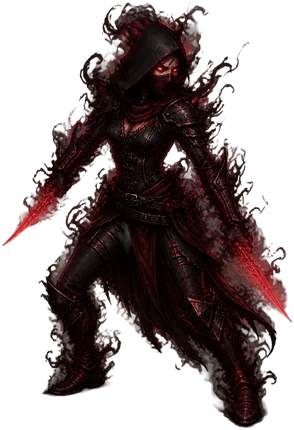
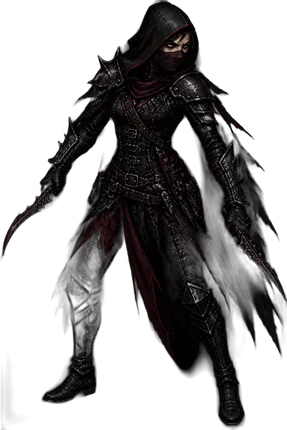
Lame d'ombre : armure palier V repeinte
Claude-Session: https://claude.ai/code/session_01XuxscubMSQPeew8BrSfQGu

diff --git a/index.html b/index.html
@@ -211,7 +211,7 @@ p{margin:6px 0;line-height:1.45}
 <div id="boot"><div class="bootin"><img src="assets/ui_emblem.webp" alt="" onerror="this.remove()"><h1>Couronne de Cendres</h1><div class="bootbar"><i></i></div><div class="boottxt">Les braises s'allument…</div><button class="btn ghost sm" id="bootskip" style="display:none">Continuer sans attendre</button></div></div>
 <div id="toasts" aria-live="polite"></div>
 <script>window.CC_SW = 1;</script><script>
-window.ART_LIST=["bg_abime","bg_bastion","bg_bastion2","bg_bourg","bg_catacombes","bg_citadelle","bg_foret","bg_marais","bg_terres","bg_titre","bld_academie","bld_chapelle","bld_fonderie","bld_forge","bld_menagerie","bld_porte","bld_taverne","hero_arbaletriere_chasseresse","hero_arbaletriere_t1","hero_arbaletriere_t2","hero_arbaletriere_t3","hero_arbaletriere_t4","hero_arbaletriere_t5","hero_arbaletriere_tireuse_elite","hero_berserker_chef_guerre","hero_berserker_ecorcheur","hero_berserker_t1","hero_berserker_t2","hero_berserker_t3","hero_berserker_t4","hero_berserker_t5","hero_chasseur_sorcieres_purificateur","hero_chasseur_sorcieres_t1","hero_chasseur_sorcieres_t2","hero_chasseur_sorcieres_t3","hero_chasseur_sorcieres_t4","hero_chasseur_sorcieres_t5","hero_chasseur_sorcieres_traqueur","hero_exorciste_confesseur","hero_exorciste_penitent","hero_exorciste_t1","hero_exorciste_t2","hero_exorciste_t3","hero_exorciste_t4","hero_exorciste_t5","hero_gardien_runes_forge_tonnerre","hero_gardien_runes_t1","hero_gardien_runes_t2","hero_gardien_runes_t3","hero_gardien_runes_t4","hero_gardien_runes_t5","hero_gardien_runes_thane_pierre","hero_hallebardier_garde_roi","hero_hallebardier_lansquenet","hero_hallebardier_t1","hero_hallebardier_t2","hero_hallebardier_t3","hero_hallebardier_t4","hero_hallebardier_t5","hero_medecin_peste_apothicaire","hero_medecin_peste_chirurgien","hero_medecin_peste_t1","hero_medecin_peste_t2","hero_medecin_peste_t3","hero_medecin_peste_t4","hero_medecin_peste_t5","hero_menestrel_chantre","hero_menestrel_heraut","hero_menestrel_t1","hero_menestrel_t2","hero_menestrel_t3","hero_menestrel_t4","hero_menestrel_t5","hero_necromancien_liche","hero_necromancien_maitre_tombes","hero_necromancien_t1","hero_necromancien_t2","hero_necromancien_t3","hero_necromancien_t4","hero_necromancien_t5","hero_ombre_assassin","hero_ombre_ombre_sang","hero_ombre_t1","hero_ombre_t2","hero_ombre_t3","hero_ombre_t4","hero_ombre_t5","hero_pretresse_martyre","hero_pretresse_sainte","hero_pretresse_t1","hero_pretresse_t2","hero_pretresse_t3","hero_pretresse_t4","hero_pretresse_t5","hero_pyromancien_archimage","hero_pyromancien_demoniste","hero_pyromancien_t1","hero_pyromancien_t2","hero_pyromancien_t3","hero_pyromancien_t4","hero_pyromancien_t5","hero_revenant_seigneur_sang","hero_revenant_spectre","hero_revenant_t1","hero_revenant_t2","hero_revenant_t3","hero_revenant_t4","hero_revenant_t5","hero_sorciere_druidesse","hero_sorciere_sorciere_noire","hero_sorciere_t1","hero_sorciere_t2","hero_sorciere_t3","hero_sorciere_t4","hero_sorciere_t5","hero_templier_bastion","hero_templier_inquisiteur","hero_templier_t1","hero_templier_t2","hero_templier_t3","hero_templier_t4","hero_templier_t5","map_boss","map_camp","map_combat","map_elite","map_event","map_shop","map_treasure","mon_abbe","mon_alpha","mon_araignee","mon_archer","mon_archer_os","mon_archonte_cendres","mon_boucher","mon_bourreau","mon_brigand","mon_cardinal","mon_charognard","mon_chevalier_dechu","mon_chevalier_os","mon_chevaucheur_calcine","mon_chien_cendre","mon_colosse_braise","mon_crapaud","mon_cultiste","mon_devoreur_lumiere","mon_diablotin","mon_docteur","mon_dryade","mon_follet","mon_gargouille","mon_golem","mon_goule","mon_hallebardier_os","mon_horreur","mon_hydre","mon_inquisiteur","mon_liche","mon_loup","mon_matrone_os","mon_mere_noyes","mon_mere_ronces","mon_moine_flagellant","mon_necrophage","mon_noye","mon_oeil","mon_ogre","mon_pecheur","mon_pendu","mon_penitent_ardent","mon_pestifere","mon_pretre_suie","mon_prieur","mon_profond","mon_rat","mon_reine_sabbat","mon_roi","mon_sangsue","mon_sans_nom","mon_sans_visage","mon_sentinelle_obsidienne","mon_sorciere_marais","mon_spectre","mon_squelette","mon_thuriferaire","pet_araignee","pet_araignee_evo","pet_belette","pet_cerf","pet_cerf_evo","pet_chat_noir","pet_chat_noir_evo","pet_chauve_souris","pet_chauve_souris_evo","pet_chouette","pet_chouette_evo","pet_corbeau","pet_corbeau_evo","pet_crapaud","pet_crapaud_evo","pet_drake","pet_drake_evo","pet_feu_follet","pet_feu_follet_evo","pet_gargouille","pet_gargouille_evo","pet_griffon","pet_griffon_evo","pet_loup","pet_loup_evo","pet_molosse","pet_molosse_evo","pet_ours","pet_ours_evo","pet_renard","pet_renard_evo","pet_salamandre","pet_salamandre_evo","pet_sanglier","pet_sanglier_evo","pet_vipere","pet_vipere_evo","tr_amulette_sel","tr_bague_fer","tr_cape_brume","tr_chapelet","tr_cloche_morte","tr_coeur_braise","tr_coeur_roi","tr_couronne_epines","tr_crane_saint","tr_croc_vampire","tr_dent_loup","tr_ecu_brise","tr_fiole_sang","tr_fragment_couronne","tr_gant_bourreau","tr_griffe_ombre","tr_herbe_rare","tr_oeil_abime","tr_oeil_verre","tr_phylactere","tr_pierre_ame","tr_plume_corbeau","tr_relique_aube","tr_sablier","tr_sceau_rouge","ui_aim","ui_amulet","ui_anvil","ui_armor","ui_axe","ui_back","ui_bag","ui_banner","ui_bark","ui_bell","ui_bird","ui_bless","ui_blood","ui_bolt","ui_bones","ui_book","ui_boom","ui_camp","ui_castle","ui_chain","ui_chapel","ui_charge","ui_chest","ui_claw","ui_cleanse","ui_cloak","ui_coin","ui_crown","ui_cup","ui_curse","ui_dagger","ui_daily","ui_dice","ui_drain","ui_ember","ui_emblem","ui_essence","ui_eye","ui_fang","ui_fear","ui_feather","ui_fire","ui_flames","ui_flare","ui_flask","ui_flee","ui_frost","ui_furnace","ui_gear","ui_gem","ui_ghost","ui_glove","ui_guard","ui_hammer","ui_hand","ui_heal","ui_heart","ui_helm","ui_herb","ui_horn","ui_hourglass","ui_iron","ui_knives","ui_link","ui_lock","ui_lute","ui_mace","ui_map","ui_mark","ui_mask","ui_meteor","ui_moon","ui_music","ui_note","ui_pact","ui_paw","ui_pawn","ui_pierce","ui_pillar","ui_potion","ui_quest","ui_rage","ui_rain","ui_ray","ui_ring","ui_riposte","ui_root","ui_rosary","ui_run","ui_sanct","ui_scroll","ui_scythe","ui_seal","ui_shard","ui_shield","ui_shroud","ui_skull","ui_skullc","ui_smoke","ui_sound","ui_star","ui_stun","ui_sun","ui_sword","ui_swords","ui_tavern","ui_thorn","ui_torch","ui_trap","ui_tree","ui_trophy","ui_vial","ui_wall","ui_weapon","ui_whirl","ui_wind","wpn_arbalete","wpn_baton","wpn_croix","wpn_dagues","wpn_encensoir","wpn_espadon","wpn_faucille","wpn_faux","wpn_grimoire","wpn_hache","wpn_hallebarde","wpn_luth","wpn_marteau","wpn_masse","wpn_rapiere"];window.ART_META={"hero_arbaletriere_chasseresse": 0.019,"hero_arbaletriere_t1": 0.009,"hero_arbaletriere_t2": 0.009,"hero_arbaletriere_t3": 0.007,"hero_arbaletriere_t4": 0.007,"hero_arbaletriere_t5": 0.009,"hero_arbaletriere_tireuse_elite": 0.007,"hero_berserker_chef_guerre": 0.03,"hero_berserker_ecorcheur": 0.007,"hero_berserker_t1": 0.014,"hero_berserker_t2": 0.009,"hero_berserker_t3": 0.009,"hero_berserker_t4": 0.007,"hero_berserker_t5": 0.007,"hero_chasseur_sorcieres_purificateur": 0.056,"hero_chasseur_sorcieres_t1": 0.007,"hero_chasseur_sorcieres_t2": 0.009,"hero_chasseur_sorcieres_t3": 0.007,"hero_chasseur_sorcieres_t4": 0.007,"hero_chasseur_sorcieres_t5": 0.012,"hero_chasseur_sorcieres_traqueur": 0.007,"hero_exorciste_confesseur": 0.005,"hero_exorciste_penitent": 0.028,"hero_exorciste_t1": 0.04,"hero_exorciste_t2": 0.065,"hero_exorciste_t3": 0.074,"hero_exorciste_t4": 0.072,"hero_exorciste_t5": 0.03,"hero_gardien_runes_forge_tonnerre": 0.023,"hero_gardien_runes_t1": 0.014,"hero_gardien_runes_t2": 0.012,"hero_gardien_runes_t3": 0.014,"hero_gardien_runes_t4": 0.014,"hero_gardien_runes_t5": 0.035,"hero_gardien_runes_thane_pierre": 0.014,"hero_hallebardier_garde_roi": 0.016,"hero_hallebardier_lansquenet": 0.028,"hero_hallebardier_t1": 0.012,"hero_hallebardier_t2": 0.012,"hero_hallebardier_t3": 0.012,"hero_hallebardier_t4": 0.021,"hero_hallebardier_t5": 0.014,"hero_medecin_peste_apothicaire": 0.005,"hero_medecin_peste_chirurgien": 0.005,"hero_medecin_peste_t1": 0.007,"hero_medecin_peste_t2": 0.005,"hero_medecin_peste_t3": 0.005,"hero_medecin_peste_t4": 0.005,"hero_medecin_peste_t5": 0.005,"hero_menestrel_chantre": 0.007,"hero_menestrel_heraut": 0.13,"hero_menestrel_t1": 0.007,"hero_menestrel_t2": 0.005,"hero_menestrel_t3": 0.007,"hero_menestrel_t4": 0.012,"hero_menestrel_t5": 0.007,"hero_necromancien_liche": 0.014,"hero_necromancien_maitre_tombes": 0.079,"hero_necromancien_t1": 0.009,"hero_necromancien_t2": 0.016,"hero_necromancien_t3": 0.016,"hero_necromancien_t4": 0.016,"hero_necromancien_t5": 0.012,"hero_ombre_assassin": 0.007,"hero_ombre_ombre_sang": 0.009,"hero_ombre_t1": 0.009,"hero_ombre_t2": 0.009,"hero_ombre_t3": 0.009,"hero_ombre_t4": 0.009,"hero_ombre_t5": 0.014,"hero_pretresse_martyre": 0.102,"hero_pretresse_sainte": 0.07,"hero_pretresse_t1": 0.079,"hero_pretresse_t2": 0.1,"hero_pretresse_t3": 0.121,"hero_pretresse_t4": 0.091,"hero_pretresse_t5": 0.06,"hero_pyromancien_archimage": 0.007,"hero_pyromancien_demoniste": 0.051,"hero_pyromancien_t1": 0.009,"hero_pyromancien_t2": 0.007,"hero_pyromancien_t3": 0.007,"hero_pyromancien_t4": 0.007,"hero_pyromancien_t5": 0.026,"hero_revenant_seigneur_sang": 0.151,"hero_revenant_spectre": 0.114,"hero_revenant_t1": 0.109,"hero_revenant_t2": 0.151,"hero_revenant_t3": 0.156,"hero_revenant_t4": 0.149,"hero_revenant_t5": 0.095,"hero_sorciere_druidesse": 0.051,"hero_sorciere_sorciere_noire": 0.028,"hero_sorciere_t1": 0.007,"hero_sorciere_t2": 0.014,"hero_sorciere_t3": 0.012,"hero_sorciere_t4": 0.009,"hero_sorciere_t5": 0.019,"hero_templier_bastion": 0.021,"hero_templier_inquisiteur": 0.007,"hero_templier_t1": 0.007,"hero_templier_t2": 0.007,"hero_templier_t3": 0.005,"hero_templier_t4": 0.026,"hero_templier_t5": 0.009};window.SFX_LIST=["amb_abime","amb_bastion","amb_bourg","amb_catacombes","amb_citadelle","amb_foret","amb_marais","fx_bell","fx_coin","fx_crit","fx_dark","fx_die","fx_door","fx_fire","fx_forge","fx_heal","fx_heavy","fx_hit","fx_holy","fx_miss","fx_open","fx_shoot","fx_slash","fx_step"];window.ART_FLIP=["mon_archer_os","mon_moine_flagellant","mon_spectre","hero_ombre_assassin","hero_ombre_ombre_sang","mon_cardinal"];
+window.ART_LIST=["bg_abime","bg_bastion","bg_bastion2","bg_bourg","bg_catacombes","bg_citadelle","bg_foret","bg_marais","bg_terres","bg_titre","bld_academie","bld_chapelle","bld_fonderie","bld_forge","bld_menagerie","bld_porte","bld_taverne","hero_arbaletriere_chasseresse","hero_arbaletriere_t1","hero_arbaletriere_t2","hero_arbaletriere_t3","hero_arbaletriere_t4","hero_arbaletriere_t5","hero_arbaletriere_tireuse_elite","hero_berserker_chef_guerre","hero_berserker_ecorcheur","hero_berserker_t1","hero_berserker_t2","hero_berserker_t3","hero_berserker_t4","hero_berserker_t5","hero_chasseur_sorcieres_purificateur","hero_chasseur_sorcieres_t1","hero_chasseur_sorcieres_t2","hero_chasseur_sorcieres_t3","hero_chasseur_sorcieres_t4","hero_chasseur_sorcieres_t5","hero_chasseur_sorcieres_traqueur","hero_exorciste_confesseur","hero_exorciste_penitent","hero_exorciste_t1","hero_exorciste_t2","hero_exorciste_t3","hero_exorciste_t4","hero_exorciste_t5","hero_gardien_runes_forge_tonnerre","hero_gardien_runes_t1","hero_gardien_runes_t2","hero_gardien_runes_t3","hero_gardien_runes_t4","hero_gardien_runes_t5","hero_gardien_runes_thane_pierre","hero_hallebardier_garde_roi","hero_hallebardier_lansquenet","hero_hallebardier_t1","hero_hallebardier_t2","hero_hallebardier_t3","hero_hallebardier_t4","hero_hallebardier_t5","hero_medecin_peste_apothicaire","hero_medecin_peste_chirurgien","hero_medecin_peste_t1","hero_medecin_peste_t2","hero_medecin_peste_t3","hero_medecin_peste_t4","hero_medecin_peste_t5","hero_menestrel_chantre","hero_menestrel_heraut","hero_menestrel_t1","hero_menestrel_t2","hero_menestrel_t3","hero_menestrel_t4","hero_menestrel_t5","hero_necromancien_liche","hero_necromancien_maitre_tombes","hero_necromancien_t1","hero_necromancien_t2","hero_necromancien_t3","hero_necromancien_t4","hero_necromancien_t5","hero_ombre_assassin","hero_ombre_ombre_sang","hero_ombre_t1","hero_ombre_t2","hero_ombre_t3","hero_ombre_t4","hero_ombre_t5","hero_pretresse_martyre","hero_pretresse_sainte","hero_pretresse_t1","hero_pretresse_t2","hero_pretresse_t3","hero_pretresse_t4","hero_pretresse_t5","hero_pyromancien_archimage","hero_pyromancien_demoniste","hero_pyromancien_t1","hero_pyromancien_t2","hero_pyromancien_t3","hero_pyromancien_t4","hero_pyromancien_t5","hero_revenant_seigneur_sang","hero_revenant_spectre","hero_revenant_t1","hero_revenant_t2","hero_revenant_t3","hero_revenant_t4","hero_revenant_t5","hero_sorciere_druidesse","hero_sorciere_sorciere_noire","hero_sorciere_t1","hero_sorciere_t2","hero_sorciere_t3","hero_sorciere_t4","hero_sorciere_t5","hero_templier_bastion","hero_templier_inquisiteur","hero_templier_t1","hero_templier_t2","hero_templier_t3","hero_templier_t4","hero_templier_t5","map_boss","map_camp","map_combat","map_elite","map_event","map_shop","map_treasure","mon_abbe","mon_alpha","mon_araignee","mon_archer","mon_archer_os","mon_archonte_cendres","mon_boucher","mon_bourreau","mon_brigand","mon_cardinal","mon_charognard","mon_chevalier_dechu","mon_chevalier_os","mon_chevaucheur_calcine","mon_chien_cendre","mon_colosse_braise","mon_crapaud","mon_cultiste","mon_devoreur_lumiere","mon_diablotin","mon_docteur","mon_dryade","mon_follet","mon_gargouille","mon_golem","mon_goule","mon_hallebardier_os","mon_horreur","mon_hydre","mon_inquisiteur","mon_liche","mon_loup","mon_matrone_os","mon_mere_noyes","mon_mere_ronces","mon_moine_flagellant","mon_necrophage","mon_noye","mon_oeil","mon_ogre","mon_pecheur","mon_pendu","mon_penitent_ardent","mon_pestifere","mon_pretre_suie","mon_prieur","mon_profond","mon_rat","mon_reine_sabbat","mon_roi","mon_sangsue","mon_sans_nom","mon_sans_visage","mon_sentinelle_obsidienne","mon_sorciere_marais","mon_spectre","mon_squelette","mon_thuriferaire","pet_araignee","pet_araignee_evo","pet_belette","pet_cerf","pet_cerf_evo","pet_chat_noir","pet_chat_noir_evo","pet_chauve_souris","pet_chauve_souris_evo","pet_chouette","pet_chouette_evo","pet_corbeau","pet_corbeau_evo","pet_crapaud","pet_crapaud_evo","pet_drake","pet_drake_evo","pet_feu_follet","pet_feu_follet_evo","pet_gargouille","pet_gargouille_evo","pet_griffon","pet_griffon_evo","pet_loup","pet_loup_evo","pet_molosse","pet_molosse_evo","pet_ours","pet_ours_evo","pet_renard","pet_renard_evo","pet_salamandre","pet_salamandre_evo","pet_sanglier","pet_sanglier_evo","pet_vipere","pet_vipere_evo","tr_amulette_sel","tr_bague_fer","tr_cape_brume","tr_chapelet","tr_cloche_morte","tr_coeur_braise","tr_coeur_roi","tr_couronne_epines","tr_crane_saint","tr_croc_vampire","tr_dent_loup","tr_ecu_brise","tr_fiole_sang","tr_fragment_couronne","tr_gant_bourreau","tr_griffe_ombre","tr_herbe_rare","tr_oeil_abime","tr_oeil_verre","tr_phylactere","tr_pierre_ame","tr_plume_corbeau","tr_relique_aube","tr_sablier","tr_sceau_rouge","ui_aim","ui_amulet","ui_anvil","ui_armor","ui_axe","ui_back","ui_bag","ui_banner","ui_bark","ui_bell","ui_bird","ui_bless","ui_blood","ui_bolt","ui_bones","ui_book","ui_boom","ui_camp","ui_castle","ui_chain","ui_chapel","ui_charge","ui_chest","ui_claw","ui_cleanse","ui_cloak","ui_coin","ui_crown","ui_cup","ui_curse","ui_dagger","ui_daily","ui_dice","ui_drain","ui_ember","ui_emblem","ui_essence","ui_eye","ui_fang","ui_fear","ui_feather","ui_fire","ui_flames","ui_flare","ui_flask","ui_flee","ui_frost","ui_furnace","ui_gear","ui_gem","ui_ghost","ui_glove","ui_guard","ui_hammer","ui_hand","ui_heal","ui_heart","ui_helm","ui_herb","ui_horn","ui_hourglass","ui_iron","ui_knives","ui_link","ui_lock","ui_lute","ui_mace","ui_map","ui_mark","ui_mask","ui_meteor","ui_moon","ui_music","ui_note","ui_pact","ui_paw","ui_pawn","ui_pierce","ui_pillar","ui_potion","ui_quest","ui_rage","ui_rain","ui_ray","ui_ring","ui_riposte","ui_root","ui_rosary","ui_run","ui_sanct","ui_scroll","ui_scythe","ui_seal","ui_shard","ui_shield","ui_shroud","ui_skull","ui_skullc","ui_smoke","ui_sound","ui_star","ui_stun","ui_sun","ui_sword","ui_swords","ui_tavern","ui_thorn","ui_torch","ui_trap","ui_tree","ui_trophy","ui_vial","ui_wall","ui_weapon","ui_whirl","ui_wind","wpn_arbalete","wpn_baton","wpn_croix","wpn_dagues","wpn_encensoir","wpn_espadon","wpn_faucille","wpn_faux","wpn_grimoire","wpn_hache","wpn_hallebarde","wpn_luth","wpn_marteau","wpn_masse","wpn_rapiere"];window.ART_META={"hero_arbaletriere_chasseresse": 0.019,"hero_arbaletriere_t1": 0.009,"hero_arbaletriere_t2": 0.009,"hero_arbaletriere_t3": 0.007,"hero_arbaletriere_t4": 0.007,"hero_arbaletriere_t5": 0.009,"hero_arbaletriere_tireuse_elite": 0.007,"hero_berserker_chef_guerre": 0.03,"hero_berserker_ecorcheur": 0.007,"hero_berserker_t1": 0.014,"hero_berserker_t2": 0.009,"hero_berserker_t3": 0.009,"hero_berserker_t4": 0.007,"hero_berserker_t5": 0.007,"hero_chasseur_sorcieres_purificateur": 0.056,"hero_chasseur_sorcieres_t1": 0.007,"hero_chasseur_sorcieres_t2": 0.009,"hero_chasseur_sorcieres_t3": 0.007,"hero_chasseur_sorcieres_t4": 0.007,"hero_chasseur_sorcieres_t5": 0.012,"hero_chasseur_sorcieres_traqueur": 0.007,"hero_exorciste_confesseur": 0.005,"hero_exorciste_penitent": 0.028,"hero_exorciste_t1": 0.04,"hero_exorciste_t2": 0.065,"hero_exorciste_t3": 0.074,"hero_exorciste_t4": 0.072,"hero_exorciste_t5": 0.03,"hero_gardien_runes_forge_tonnerre": 0.023,"hero_gardien_runes_t1": 0.014,"hero_gardien_runes_t2": 0.012,"hero_gardien_runes_t3": 0.014,"hero_gardien_runes_t4": 0.014,"hero_gardien_runes_t5": 0.035,"hero_gardien_runes_thane_pierre": 0.014,"hero_hallebardier_garde_roi": 0.016,"hero_hallebardier_lansquenet": 0.028,"hero_hallebardier_t1": 0.012,"hero_hallebardier_t2": 0.012,"hero_hallebardier_t3": 0.012,"hero_hallebardier_t4": 0.021,"hero_hallebardier_t5": 0.014,"hero_medecin_peste_apothicaire": 0.005,"hero_medecin_peste_chirurgien": 0.005,"hero_medecin_peste_t1": 0.007,"hero_medecin_peste_t2": 0.005,"hero_medecin_peste_t3": 0.005,"hero_medecin_peste_t4": 0.005,"hero_medecin_peste_t5": 0.005,"hero_menestrel_chantre": 0.007,"hero_menestrel_heraut": 0.13,"hero_menestrel_t1": 0.007,"hero_menestrel_t2": 0.005,"hero_menestrel_t3": 0.007,"hero_menestrel_t4": 0.012,"hero_menestrel_t5": 0.007,"hero_necromancien_liche": 0.014,"hero_necromancien_maitre_tombes": 0.079,"hero_necromancien_t1": 0.009,"hero_necromancien_t2": 0.016,"hero_necromancien_t3": 0.016,"hero_necromancien_t4": 0.016,"hero_necromancien_t5": 0.012,"hero_ombre_assassin": 0.007,"hero_ombre_ombre_sang": 0.009,"hero_ombre_t1": 0.009,"hero_ombre_t2": 0.009,"hero_ombre_t3": 0.009,"hero_ombre_t4": 0.009,"hero_ombre_t5": 0.007,"hero_pretresse_martyre": 0.102,"hero_pretresse_sainte": 0.07,"hero_pretresse_t1": 0.079,"hero_pretresse_t2": 0.1,"hero_pretresse_t3": 0.121,"hero_pretresse_t4": 0.091,"hero_pretresse_t5": 0.06,"hero_pyromancien_archimage": 0.007,"hero_pyromancien_demoniste": 0.051,"hero_pyromancien_t1": 0.009,"hero_pyromancien_t2": 0.007,"hero_pyromancien_t3": 0.007,"hero_pyromancien_t4": 0.007,"hero_pyromancien_t5": 0.026,"hero_revenant_seigneur_sang": 0.151,"hero_revenant_spectre": 0.114,"hero_revenant_t1": 0.109,"hero_revenant_t2": 0.151,"hero_revenant_t3": 0.156,"hero_revenant_t4": 0.149,"hero_revenant_t5": 0.095,"hero_sorciere_druidesse": 0.051,"hero_sorciere_sorciere_noire": 0.028,"hero_sorciere_t1": 0.007,"hero_sorciere_t2": 0.014,"hero_sorciere_t3": 0.012,"hero_sorciere_t4": 0.009,"hero_sorciere_t5": 0.019,"hero_templier_bastion": 0.021,"hero_templier_inquisiteur": 0.007,"hero_templier_t1": 0.007,"hero_templier_t2": 0.007,"hero_templier_t3": 0.005,"hero_templier_t4": 0.026,"hero_templier_t5": 0.009};window.SFX_LIST=["amb_abime","amb_bastion","amb_bourg","amb_catacombes","amb_citadelle","amb_foret","amb_marais","fx_bell","fx_coin","fx_crit","fx_dark","fx_die","fx_door","fx_fire","fx_forge","fx_heal","fx_heavy","fx_hit","fx_holy","fx_miss","fx_open","fx_shoot","fx_slash","fx_step"];window.ART_FLIP=["mon_archer_os","mon_moine_flagellant","mon_spectre","hero_ombre_assassin","hero_ombre_ombre_sang","mon_cardinal"];
 /* ═══════════════════════ Couronne de Cendres — utilitaires ═══════════════════════ */
 "use strict";
 const HASWIN = typeof window !== "undefined" && typeof document !== "undefined";

diff --git a/sw.js b/sw.js
@@ -1,5 +1,5 @@
 /* Service worker : le jeu fonctionne hors connexion une fois installé. */
-const CACHE = "couronne-cendres-13430d5785", ART_CACHE = "couronne-cendres-art-972726fd";
+const CACHE = "couronne-cendres-10aded9825", ART_CACHE = "couronne-cendres-art-939a6bb5";
 const SHELL = ["./", "./index.html", "./manifest.webmanifest", "./icon-192.png", "./icon-512.png", "./icon-maskable-512.png", "./apple-touch-icon.png", "./favicon-64.png"];
 self.addEventListener("install", e => { e.waitUntil(caches.open(CACHE).then(c => c.addAll(SHELL)).then(() => self.skipWaiting())); });
 self.addEventListener("activate", e => { e.waitUntil(caches.keys().then(ks => Promise.all(ks.filter(k => k !== CACHE && k !== ART_CACHE).map(k => caches.delete(k)))).then(() => self.clients.claim())); });
